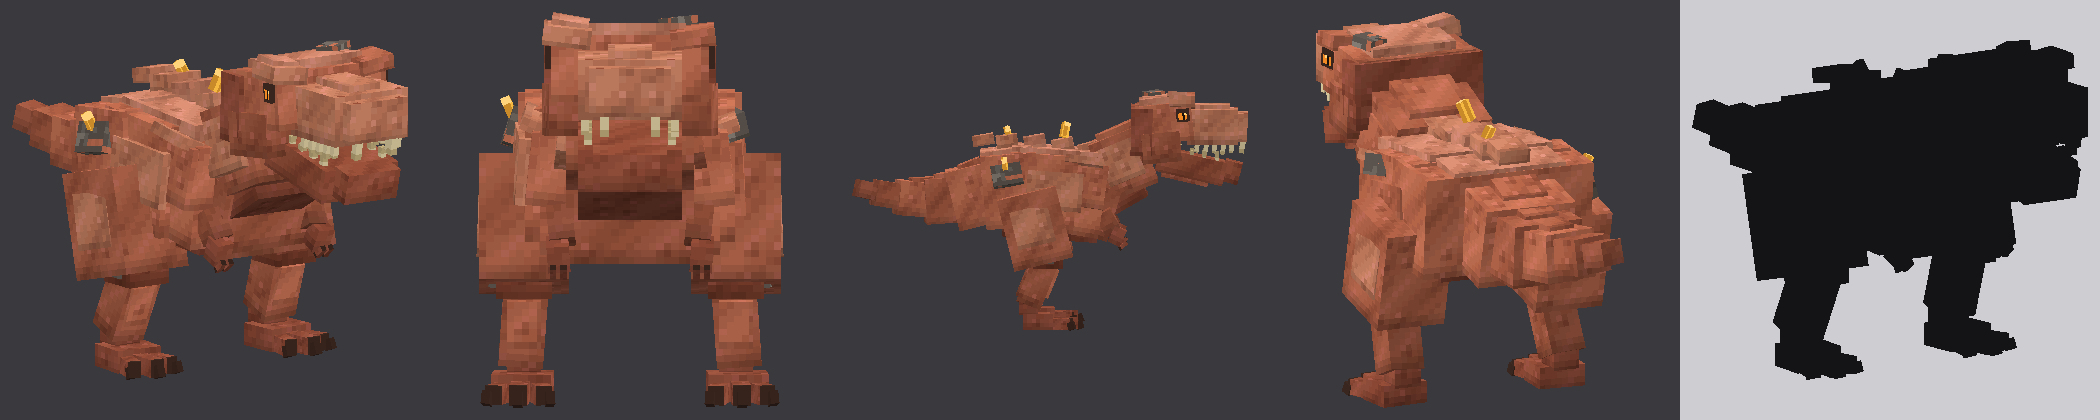
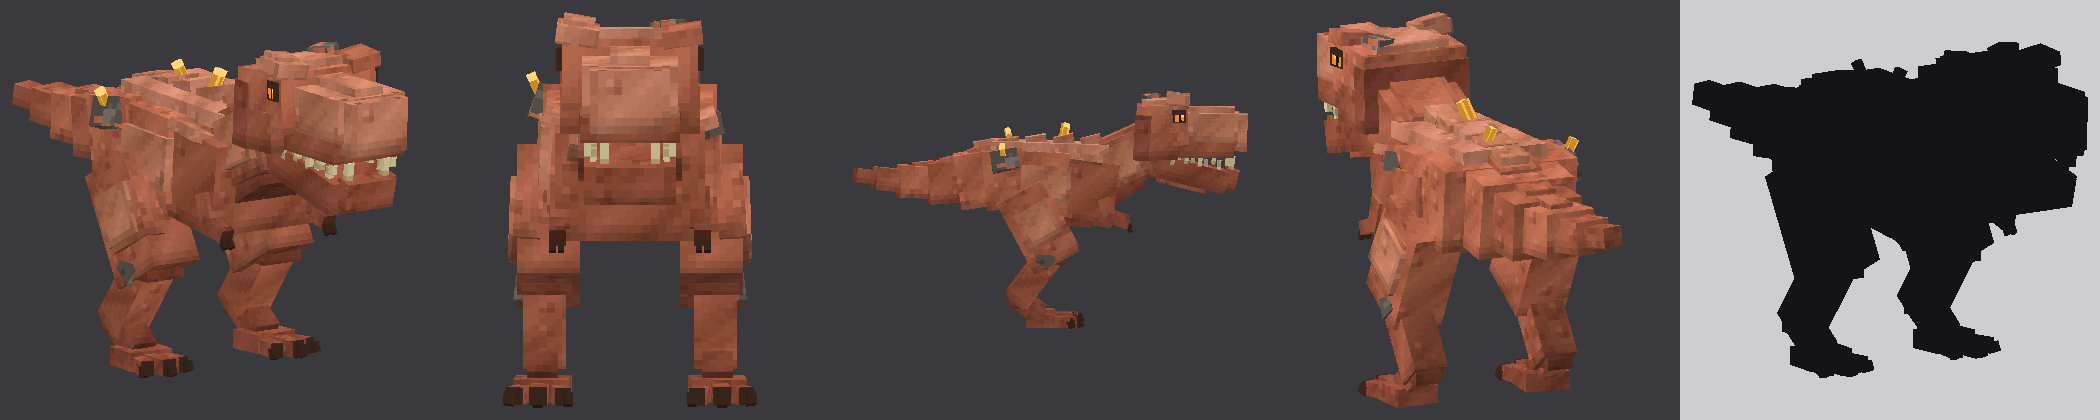
Copper T-Rex: rebuild the silhouette (long body, tall legs, long head)

diff --git a/FluxDungeons/assets/monstres/trex_cuivre.py b/FluxDungeons/assets/monstres/trex_cuivre.py
@@ -22,6 +22,7 @@ Usage: trex_cuivre.py [output folder] [--apercu <sheet.png>]
 Front to the north (-z), right side of the monster at +x, ground at y = 0, centred in x and z on its bounding box.
 """
 import json
+import math
 import os
 import sys
 import uuid
@@ -33,7 +34,7 @@ from golem_fonderie import app, mul, rot  # noqa: E402
 
 IDENT = "trex_cuivre"
 NS = uuid.UUID("5b2d9e00-0000-4000-8000-0000007e3c00")
-SCALE = 1.0
+SCALE = 0.92          # drawn at about 5.4 blocks long: brought to 5 x 3 blocks
 
 
 def pal(*c):
@@ -220,28 +221,30 @@ GLOW_COLOURS = {EYE_RIM, IRIS, GLINT, PUPIL, *AMBER}
 
 
 # --------------------------------------------------------------------------- skeleton (drawing units)
-# Body leans forward over the hips; the hind legs carry it (bones under Root, like the otter), the neck rises to a
-# head held a bit higher than the body centre; the tail leaves the back of the pelvis, dips then rises.
-HIP_Y = 30
-BODY_PIVOT = (0, 31, 6)            # over the hips: the body tips forward around them
-NECK = (0, 35, -13)                # base of the neck, on the chest
-HEAD = (0, 43, -21)                # back of the skull, top of the neck
-HEAD_R = rot(5, 0, 0)              # head slightly raised
-JAW_HINGE = (0, 40.5, -23)         # back of the lower jaw, under the temples
-JAW_OPEN = rot(-14, 0, 0)          # mouth ajar: teeth visible (negative = front down)
-HIPS = {"right": (13, HIP_Y, 5), "left": (-13, HIP_Y, 5)}
-SHOULDERS = {"right": (8, 27, -12), "left": (-8, 27, -12)}
+# Silhouette rebuilt on 2026-11-10 (owner: "too big, too squat"): a long, narrow, horizontal body; a long head pushed
+# forward, deep jaw, no cheeks; tall hind legs in three segments (thigh forward, shin back, metatarsus forward), feet
+# under the pelvis; tiny arms; a long tail thinning to a point. Targets: 5 x 3 blocks, torso 1.5 wide, head 1.1 x 1.3,
+# tail 2, legs 1.3 under the body.
+HIP = {"right": (10, 28, 6), "left": (-10, 28, 6)}
+KNEE_Z, KNEE_Y = -0.5, 16           # knee forward of the hip
+ANKLE_Z, ANKLE_Y = 7, 6             # ankle high and behind (digitigrade)
+BALL_Z = 2.5                        # metatarsus comes forward down to the toes
+NECK = (0, 33, -12)                 # base of the neck, on the chest
+HEAD = (0, 40, -20)                 # back of the skull, top of the neck
+HEAD_R = rot(2, 0, 0)               # head held level, a little raised
+JAW_HINGE = (0, 38.5, -21.5)        # back of the lower jaw
+JAW_OPEN = rot(-13, 0, 0)           # mouth ajar (negative = front down)
+SHOULDERS = {"right": (8.5, 27.5, -12), "left": (-8.5, 27.5, -12)}
 
-# Tail: (bone, cube, size, pitch from the horizontal (positive = down), extra yaw, material), base to tip.
-# Five segments, each smaller, overlapping by TAIL_OVERLAP; it dips at the base then rises, and curves gently.
+# Tail: (bone, cube, size, pitch (positive = down), extra yaw, material), base to tip; overlap TAIL_OVERLAP.
 TAIL = (
-    ("Tail_1", "queue_base", (16, 14, 10), 14, 0, "tail"),
-    ("Tail_2", "queue_milieu_1", (12.5, 10.5, 9), 4, 4, "tail_b"),
-    ("Tail_3", "queue_milieu_2", (9.5, 8, 9), -5, 5, "tail"),
-    ("Tail_4", "queue_fin", (7, 6, 8), -10, 5, "tail_b"),
-    ("Tail_5", "queue_pointe", (4.5, 4, 7), -13, 5, "tail_end"),
+    ("Tail_1", "queue_base", (15, 12, 10), 9, 0, "tail"),
+    ("Tail_2", "queue_milieu_1", (11.5, 9, 9), 4, 3, "tail_b"),
+    ("Tail_3", "queue_milieu_2", (8.5, 7, 9), -2, 4, "tail"),
+    ("Tail_4", "queue_fin", (6, 5, 8), -6, 4, "tail_b"),
+    ("Tail_5", "queue_pointe", (3.5, 3.2, 7), -8, 4, "tail_end"),
 )
-TAIL_START = (0, 31.5, 13)
+TAIL_START = (0, 33, 10.5)
 TAIL_OVERLAP = 2.5
 
 
@@ -251,53 +254,50 @@ def local(c, M, v):
     return [c[i] + q[i] for i in range(3)]
 
 
+def seg(a, b, width, depth, extra=2.0):
+    """A limb cube from joint a to joint b (in the y-z plane): centre, size, pitch; `extra` overlaps the joints."""
+    dy, dz = b[1] - a[1], b[2] - a[2]
+    length = math.hypot(dy, dz) + extra
+    pitch = math.degrees(math.atan2(-dz, -dy))      # positive = bottom toward -z (front)
+    return [(a[i] + b[i]) / 2 for i in range(3)], (width, length, depth), (pitch, 0, 0)
+
+
 def parts():
     """Pieces and bones (name: (pivot, parent)), in drawing units, before grounding."""
     P = []
-    G = {"Root": ((0, 0, 0), None), "Body": (BODY_PIVOT, "Root"), "glow_crystals": (BODY_PIVOT, "Body"),
+    G = {"Root": ((0, 0, 0), None), "Body": ((0, 31, 6), "Root"), "glow_crystals": ((0, 31, 6), "Body"),
          "Neck": (NECK, "Body"), "Head": (HEAD, "Neck")}
 
     def add(g, name, c, size, r, mat):
         P.append((g, name, list(c), size, r, mat))
 
-    # ---------------------------------------------------------------- body: chest, shoulders, pelvis, belly, back
-    # Torso in several boxes: higher, rounder back; narrower belly; pelvis wider than the chest toward the legs.
-    add("Body", "torse", (0, 31.5, 2), (28, 18, 16), (-4, 0, 0), "flank")
-    add("Body", "torse_avant", (0, 30, -7.5), (24, 17, 10), (-9, 0, 0), "flank")         # narrower chest
-    add("Body", "torse_haut", (0, 39.5, -1), (22, 4, 20), (-4, 0, 0), "copper_light")      # rounded back
-    add("Body", "poitrail", (0, 26.5, -12), (17, 12, 6), (-16, 0, 0), "copper_aged")
-    add("Body", "epaule_droite", (10.5, 33, -8), (6, 10, 10), (-8, 0, 6), "copper")
-    add("Body", "epaule_gauche", (-10.5, 33, -8), (6, 10, 10), (-8, 0, -6), "copper")
-    add("Body", "bassin", (0, 32, 9), (30, 17, 13), (5, 0, 0), "hips")
-    add("Body", "croupe", (0, 39.5, 10), (20, 4, 12), (8, 0, 0), "copper_light")
-    add("Body", "ventre", (0, 22.5, 0), (20, 4, 22), (-4, 0, 0), "belly")
-    # plates on the flanks and shoulders, following the body, not aligned with each other
-    add("Body", "plaque_flanc_droit", (14.6, 32, -1), (1.6, 9, 13), (-4, 3, 4), "plate_crack")
-    add("Body", "plaque_flanc_gauche", (-14.6, 31, 1), (1.6, 10, 12), (-6, -2, -3), "plate_aged")
-    add("Body", "plaque_epaule_droite", (11.5, 38.2, -8), (6, 1.8, 9), (-8, 0, 22), "plate_crystal")
-    add("Body", "plaque_epaule_gauche", (-11.5, 37.8, -7.5), (6, 1.8, 8), (-6, 0, -20), "plate")
-    # dorsal plates along the spine, small and leaning back (mineral plates, not dragon spikes)
-    for i, (z, w, h, ang, mat) in enumerate(((-9, 6, 2.5, 14, "plate"), (-3, 7, 3, 12, "plate_crystal"),
-                                             (3.5, 7, 3.2, 10, "plate_light"), (10, 6.5, 2.8, 8, "plate_crystal"),
-                                             (15.5, 5.5, 2.4, 10, "plate"))):
-        y = 41.6 + 0.08 * z + h / 2 - 0.8
-        add("Body", f"plaque_dos_{i + 1}", (0, y, z), (w, h, 5), (ang, 0, 0), mat)
-    # rocks grown into the copper: right hip (with copper ore), left shoulder
-    add("Body", "roche_hanche", (14.5, 35.5, 10), (4, 5, 7), (10, 0, 18), "rock_ore")
-    add("Body", "roche_epaule", (-12.5, 37.5, -5), (5, 3.5, 5), (-10, 20, -16), "rock")
-    # small amber crystals (emissive) in the back plates and the left hip rock
-    add("glow_crystals", "cristal_dos", (1.2, 45.6, -3.5), (1.6, 3.5, 1.6), (-12, 30, 14), "crystal")
-    add("glow_crystals", "cristal_dos_2", (-1.0, 45.0, 9.8), (1.3, 2.6, 1.3), (14, 20, -16), "crystal")
-    add("glow_crystals", "cristal_hanche", (16.2, 38.5, 10.5), (1.3, 2.8, 1.3), (6, 0, -24), "crystal")
+    # ---------------------------------------------------------------- body: long and narrow, horizontal
+    add("Body", "poitrail", (0, 29.5, -8.5), (19, 14, 12), (-8, 0, 0), "copper_aged")       # chest, a bit lower
+    add("Body", "torse", (0, 31.5, 2), (21, 14, 12), (-3, 0, 0), "flank")
+    add("Body", "bassin", (0, 32.5, 10), (22, 13, 9), (6, 0, 0), "hips")                   # carries the legs
+    add("Body", "dos", (0, 39, 0), (14, 2.5, 26), (-2, 0, 0), "copper_light")              # gently arched back
+    add("Body", "ventre", (0, 23.6, -2), (14, 2.5, 14), (-5, 0, 0), "belly")               # flat, not a ball
+    add("Body", "plaque_flanc_droit", (10.8, 31.5, 1), (1.4, 8, 11), (-3, 2, 3), "plate")
+    add("Body", "plaque_flanc_gauche", (-10.8, 31, 2), (1.4, 9, 10), (-4, -2, -3), "plate_aged")
+    add("Body", "plaque_epaule_droite", (8.5, 36.5, -8), (5, 1.6, 7), (-8, 0, 20), "plate_crystal")
+    add("Body", "plaque_epaule_gauche", (-8.5, 36.2, -7.5), (5, 1.6, 6), (-8, 0, -18), "plate")
+    for i, (z, w, h, ang, mat) in enumerate(((-9, 5, 2.2, 14, "plate"), (-3, 6, 2.6, 12, "plate_crystal"),
+                                             (3, 6, 2.8, 10, "plate_light"), (9, 5.5, 2.5, 8, "plate_crystal"),
+                                             (14.5, 4.5, 2.2, 10, "plate"))):
+        add("Body", f"plaque_dos_{i + 1}", (0, 39.6 + h / 2 - 0.6 - 0.04 * z, z), (w, h, 4.5), (ang, 0, 0), mat)
+    add("Body", "roche_hanche", (10.5, 36.5, 10), (3.5, 4.5, 6), (10, 0, 18), "rock_ore")
+    add("Body", "roche_epaule", (-9, 35.5, -4), (4, 3, 4.5), (-10, 20, -16), "rock")
+    add("glow_crystals", "cristal_dos", (1.0, 42.8, -3.2), (1.5, 3.2, 1.5), (-12, 30, 14), "crystal")
+    add("glow_crystals", "cristal_dos_2", (-0.9, 42.0, 9.2), (1.2, 2.4, 1.2), (14, 20, -16), "crystal")
+    add("glow_crystals", "cristal_hanche", (12.0, 39.2, 10.5), (1.2, 2.6, 1.2), (6, 0, -24), "crystal")
 
-    # ---------------------------------------------------------------- neck: thick, leaning forward, plated
-    add("Neck", "cou", (0, 38, -17), (17, 14, 12), (22, 0, 0), "neck")
-    add("Neck", "gorge", (0, 31.5, -16.5), (14, 8, 10), (30, 0, 0), "belly")
-    add("Neck", "plaque_nuque", (0, 45.3, -15.5), (11, 2, 10), (24, 0, 0), "plate_aged")
-    add("Neck", "plaque_cou_droite", (8.8, 38.5, -16.5), (1.6, 9, 9), (22, 0, 6), "plate")
-    add("Neck", "plaque_cou_gauche", (-8.8, 38, -17), (1.6, 8, 9), (20, 0, -8), "plate_ox")
+    # ---------------------------------------------------------------- neck: thick, rising forward, darker
+    add("Neck", "cou", (0, 36, -16), (13, 11, 11), (24, 0, 0), "neck")
+    add("Neck", "gorge", (0, 30.8, -15.5), (11, 6, 9), (30, 0, 0), "belly")
+    add("Neck", "plaque_nuque", (0, 41.6, -15), (9, 1.8, 9), (24, 0, 0), "plate_aged")
+    add("Neck", "plaque_cou_droite", (6.8, 36.5, -16), (1.4, 7.5, 8), (24, 0, 6), "plate")
 
-    # ---------------------------------------------------------------- head: big skull, long snout, brows
+    # ---------------------------------------------------------------- head: long skull, deep jaw, snout forward
     on_head = attach(HEAD, HEAD_R)
 
     def hd(g, name, c, size, r, mat):
@@ -305,38 +305,36 @@ def parts():
         P.append((g, name, cc, size, M, mat))
         return cc, M
 
-    hd("Head", "crane", (0, 47, -27), (21, 9, 13), (1, 0, 0), "skull")
-    hd("Head", "crane_dome", (0, 52, -26.5), (15, 2, 10), (2, 0, 0), "plate_light")
-    hd("Head", "arriere_crane", (0, 45.5, -21.5), (23, 11, 5), (-6, 0, 0), "copper_dark")
-    hd("Head", "joue_droite", (8.5, 41.5, -25.5), (5.5, 7, 9), (0, 6, 0), "copper_aged")
-    hd("Head", "joue_gauche", (-8.5, 41.5, -25.5), (5.5, 7, 9), (0, -6, 0), "copper_aged")
-    mc, mM = hd("Head", "museau", (0, 45, -38), (14, 8, 12), (-5, 0, 0), "snout")
-    tc, tM = hd("Head", "museau_bout", (0, 44.3, -44.6), (11, 6.5, 3), (-7, 0, 0), "snout")
-    hd("Head", "arete_nasale", (0, 49.4, -37), (6, 1.5, 11), (-5, 0, 0), "plate")
-    # brows: they overhang the eyes; asymmetric details (bigger plate over the right eye, patina on the left one)
-    hd("Head", "arcade_droite", (8.4, 51.6, -31.5), (6.5, 2.6, 6), (-7, 0, 7), "plate_crack")
-    hd("Head", "plaque_arcade_droite", (8.0, 53.2, -30.5), (5, 1.2, 4.5), (-10, 0, 10), "plate_light")
-    hd("Head", "arcade_gauche", (-8.4, 51.4, -31.5), (6, 2.4, 6), (-7, 0, -7), "plate_ox")
-    hd("Head", "roche_crane", (-6.5, 53.0, -25), (4, 1.8, 4), (0, 25, -6), "rock_ore")
-    # eyes on the sides of the skull, a little turned forward, under the brows
-    G["glow_eyes"] = (on_head((0, 49, -31), (0, 0, 0))[0], "Head")
-    hd("glow_eyes", "oeil_droit", (10.6, 48.6, -31.4), (0.8, 3, 3), (0, -14, 0), "eye")
-    hd("glow_eyes", "oeil_gauche", (-10.6, 48.6, -31.4), (0.8, 3, 3), (0, 14, 0), "eye")
-    # upper teeth along the snout, irregular, longer at the front, leaning back
-    teeth = [(-4.5, 0.5), (-2.5, 1.2), (-0.5, 0.6), (1.5, 0.9), (3.6, 0.4)]   # (z along the snout, extra length)
+    hd("Head", "crane", (0, 44, -25), (17, 9, 11), (1, 0, 0), "skull")                  # wide back of the skull
+    hd("Head", "arriere_crane", (0, 41.5, -20.3), (17.6, 10, 3.5), (-6, 0, 0), "copper_dark")
+    hd("Head", "crane_dome", (0, 48.8, -24.5), (12, 1.6, 8), (2, 0, 0), "plate_light")
+    mc, mM = hd("Head", "museau", (0, 43, -35), (12, 6.5, 13), (-3, 0, 0), "snout")    # long, horizontal
+    lc, lM = hd("Head", "levre", (0, 38.3, -33), (12.6, 3.4, 15), (-3, 0, 0), "copper_aged")  # deep upper jaw
+    hd("Head", "museau_bout", (0, 41.6, -42.2), (10, 8, 2.5), (-4, 0, 0), "snout")
+    hd("Head", "arete_nasale", (0, 46.8, -35), (5, 1.4, 12), (-3, 0, 0), "plate")
+    hd("Head", "machoire_muscle_droit", (7.6, 39.5, -24.5), (2.4, 6, 7), (0, 0, 0), "copper_aged")
+    hd("Head", "machoire_muscle_gauche", (-7.6, 39.5, -24.5), (2.4, 6, 7), (0, 0, 0), "copper_aged")
+    # brows over the eyes (asymmetric detail: bigger plate on the right), eyes on the sides, turned forward
+    hd("Head", "arcade_droite", (6.6, 49.2, -28.5), (5.4, 2.3, 5), (-7, 0, 8), "plate")
+    hd("Head", "plaque_arcade_droite", (6.4, 50.6, -27.8), (4, 1.0, 3.6), (-10, 0, 10), "plate_light")
+    hd("Head", "arcade_gauche", (-6.6, 49.0, -28.5), (5, 2.1, 5), (-7, 0, -8), "plate_aged")
+    hd("Head", "roche_crane", (-4.8, 49.6, -22.5), (3.4, 1.6, 3.4), (0, 25, -6), "rock_ore")
+    G["glow_eyes"] = (on_head((0, 46, -28.5), (0, 0, 0))[0], "Head")
+    hd("glow_eyes", "oeil_droit", (8.6, 46.0, -28.6), (0.8, 2.8, 2.8), (0, -14, 0), "eye")
+    hd("glow_eyes", "oeil_gauche", (-8.6, 46.0, -28.6), (0.8, 2.8, 2.8), (0, 14, 0), "eye")
+    # upper teeth under the deep upper jaw, irregular, longer at the front, leaning back
     for s, side in ((1, "d"), (-1, "g")):
-        for k, (dz, extra) in enumerate(teeth):
-            base = local(mc, mM, (s * 6.0, -4, dz))
-            ln = 1.6 + extra + (0.3 if (k + (s > 0)) % 2 else 0)
-            hd_c = [base[0], base[1] - ln / 2 + 0.4, base[2]]
-            P.append(("Head", f"dent_haut_{side}{k + 1}", hd_c, (1.0, ln, 1.0), mul(mM, rot(-10, 0, 0)), "tooth"))
-        base = local(tc, tM, (s * 3.4, -3.25, -0.4))
-        P.append(("Head", f"croc_avant_{side}", [base[0], base[1] - 1.3, base[2]], (1.2, 3.0, 1.2),
-                  mul(tM, rot(-8, 0, 0)), "tooth"))
+        for k, (dz, extra) in enumerate(((-6, 0.6), (-3, 0.3), (0, 0.8), (3, 0.2), (6, 0.5))):
+            base = local(lc, lM, (s * 5.3, -1.7, dz))
+            ln = 1.5 + extra
+            P.append(("Head", f"dent_haut_{side}{k + 1}", [base[0], base[1] - ln / 2 + 0.3, base[2]],
+                      (0.9, ln, 0.9), mul(lM, rot(-10, 0, 0)), "tooth"))
+        base = local(lc, lM, (s * 3.2, -1.7, -7.0))
+        P.append(("Head", f"croc_avant_{side}", [base[0], base[1] - 1.3, base[2]], (1.1, 2.8, 1.1),
+                  mul(lM, rot(-8, 0, 0)), "tooth"))
 
-    # lower jaw: a distinct piece hinged under the temples, opened a little
-    hinge = on_head(JAW_HINGE, (0, 0, 0))[0]
-    G["Jaw"] = (hinge, "Head")
+    # lower jaw: long and deep, clearly separate (darker, opened)
+    G["Jaw"] = (on_head(JAW_HINGE, (0, 0, 0))[0], "Head")
     on_jaw = attach(JAW_HINGE, JAW_OPEN)
 
     def jw(name, c, size, r, mat):
@@ -345,57 +343,65 @@ def parts():
         P.append(("Jaw", name, cc, size, M, mat))
         return cc, M
 
-    jc, jM = jw("machoire", (0, 38.6, -33), (14, 5.5, 16), (-4, 0, 0), "jaw")
-    jw("menton", (0, 38.7, -42.5), (10, 5, 4), (-6, 0, 0), "jaw")
-    jw("plaque_machoire", (0, 35.6, -32), (10, 1.5, 11), (-4, 0, 0), "plate_dark")
+    jc, jM = jw("machoire", (0, 35.2, -31), (11.5, 5, 18), (-3, 0, 0), "jaw")
+    jw("menton", (0, 35.6, -40.5), (8.5, 4.5, 3), (-4, 0, 0), "jaw")
+    jw("plaque_machoire", (0, 32.5, -30), (8, 1.4, 11), (-3, 0, 0), "plate_dark")
     for s, side in ((1, "droite"), (-1, "gauche")):
-        jw(f"articulation_{side}", (s * 7.4, 40.3, -23.5), (1.6, 3, 3), (0, 0, 0), "joint")
-        for k, dz in enumerate((-5.5, -2.5, 0.5, 3.5)):
-            top = local(jc, jM, (s * 5.6, 2.75, dz))
-            ln = 1.4 + (0.6 if k == 0 else 0.2 * (k % 2))
-            P.append(("Jaw", f"dent_bas_{side[0]}{k + 1}", [top[0], top[1] + ln / 2 - 0.4, top[2]], (1.0, ln, 1.0),
+        jw(f"articulation_{side}", (s * 6.2, 38, -22.5), (1.4, 2.8, 2.8), (0, 0, 0), "joint")
+        for k, dz in enumerate((-6.5, -3.5, -0.5, 2.5)):
+            top = local(jc, jM, (s * 4.6, 2.5, dz))
+            ln = 1.3 + (0.6 if k == 0 else 0.2 * (k % 2))
+            P.append(("Jaw", f"dent_bas_{side[0]}{k + 1}", [top[0], top[1] + ln / 2 - 0.3, top[2]], (0.9, ln, 0.9),
                       mul(jM, rot(8, 0, 0)), "fang_up"))
 
-    # ---------------------------------------------------------------- tiny arms: very short, close to the chest
+    # ---------------------------------------------------------------- tiny arms on the sides of the upper chest
     for s, side in ((1, "right"), (-1, "left")):
         bone = f"Arm_{side}"
         G[bone] = (SHOULDERS[side], "Body")
-        sx, sy, sz = SHOULDERS[side]
-        add(bone, "bras", (sx + 1.2 * s, sy - 2.2, sz - 1.4), (3.5, 5, 4), (30, 0, -6 * s), "copper_aged")
-        add(bone, "avant_bras", (sx + 1.6 * s, sy - 5.6, sz - 3.6), (3, 4, 3), (-25, 0, -4 * s), "copper_dark")
-        for k, dx in enumerate((-0.7, 0.7)):
-            add(bone, f"doigt_{k + 1}", (sx + 1.6 * s + dx, sy - 7.9, sz - 5.0), (0.9, 0.9, 2.4), (40, 0, 0), "toe")
+        S_ = SHOULDERS[side]
+        E = (S_[0] + 0.6 * s, S_[1] - 3.6, S_[2] - 1.2)         # elbow
+        W = (S_[0] + 0.7 * s, S_[1] - 4.8, S_[2] - 4.6)         # wrist: the hand sticks out in front of the chest
+        c, size, r = seg(S_, E, 2.6, 2.8, extra=1.5)
+        add(bone, "bras", c, size, r, "copper_aged")
+        c, size, r = seg(E, W, 2.2, 2.2, extra=1.5)
+        add(bone, "avant_bras", c, size, r, "copper_dark")
+        for k, dx in enumerate((-0.55, 0.55)):                  # two clawed fingers, curled down
+            add(bone, f"doigt_{k + 1}", (W[0] + dx, W[1] - 1.0, W[2] - 0.6), (0.8, 2.2, 0.8), (35, 0, 0), "claw")
 
-    # ---------------------------------------------------------------- hind legs: big thigh, thinner shin, 3-toed foot
-    legs = {}
+    # ---------------------------------------------------------------- hind legs: thigh, shin, metatarsus, 3-toed foot
     for s, side in ((1, "right"), (-1, "left")):
         up, low = f"Leg_{side}", f"Shin_{side}"
-        hx_, hy, hz = HIPS[side]
-        G[up] = ((hx_, hy, hz), "Root")
-        add(up, "cuisse", (hx_ + 1.2 * s, hy - 6.5, hz - 1.5), (12, 17, 14), (14, 0, 0), "thigh")
-        add(up, "cuisse_muscle", (hx_ + 3.6 * s, hy - 4, hz - 0.5), (5, 10, 11), (14, 0, 5 * s), "muscle")
-        add(up, "plaque_cuisse", (hx_ + 6.6 * s, hy - 6, hz - 1), (1.5, 9, 9), (14, 0, 2 * s), "plate_crack" if s > 0 else "plate")
-        knee = (hx_ + 1.2 * s, hy - 14, hz - 4.5)
-        G[low] = (knee, up)
-        add(low, "genou", (knee[0], knee[1] + 0.5, knee[2]), (7.5, 5, 7), (0, 0, 0), "joint")
-        add(low, "roche_genou", (knee[0] + 3.4 * s, knee[1] + 1, knee[2] + 0.5), (2.2, 3.5, 4), (0, 0, 8 * s), "rock")
-        add(low, "jambe", (knee[0], knee[1] - 5.5, knee[2] + 2.5), (6, 11, 6), (-22, 0, 4 * s), "copper_aged")
-        add(low, "plaque_jambe", (knee[0], knee[1] - 5.5, knee[2] - 0.8), (4.5, 7, 1.2), (-22, 0, 0), "plate_ox")
-        ankle = (knee[0], knee[1] - 11, knee[2] + 4.5)
-        add(low, "cheville", ankle, (4.5, 3.5, 4.5), (0, 0, 0), "copper_dark")
-        foot = attach(ankle, rot(0, -4 * s, 0))                           # foot turned slightly outward
-        for name, c, size, r, mat in (
-            ("pied", (ankle[0], 1.8, ankle[2] - 2.5), (8, 3.6, 7), (0, 0, 0), "copper_dark"),
-            ("doigt_1", (ankle[0] - 2.8, 1.3, ankle[2] - 7.5), (2.2, 2.6, 5.5), (0, 14, 0), "toe"),
-            ("doigt_2", (ankle[0], 1.4, ankle[2] - 8.3), (2.4, 2.8, 6.5), (0, 0, 0), "toe"),
-            ("doigt_3", (ankle[0] + 2.8, 1.3, ankle[2] - 7.5), (2.2, 2.6, 5.5), (0, -14, 0), "toe"),
-            ("griffe_1", (ankle[0] - 4.2, 0.9, ankle[2] - 10.3), (1.2, 1.8, 1.6), (20, 14, 0), "claw"),
-            ("griffe_2", (ankle[0], 1.0, ankle[2] - 11.9), (1.3, 2.0, 1.7), (20, 0, 0), "claw"),
-            ("griffe_3", (ankle[0] + 4.2, 0.9, ankle[2] - 10.3), (1.2, 1.8, 1.6), (20, -14, 0), "claw"),
+        hx_, hy, hz = HIP[side]
+        H = (hx_, hy, hz)
+        K = (hx_ + 0.5 * s, KNEE_Y, KNEE_Z)
+        A = (hx_ + 1.0 * s, ANKLE_Y, ANKLE_Z)
+        B = (hx_ + 1.0 * s, 2.5, BALL_Z)
+        G[up] = (H, "Root")
+        c, size, r = seg(H, K, 8, 11, extra=4)
+        add(up, "cuisse", c, size, r, "thigh")                                       # big, muscular
+        add(up, "cuisse_muscle", (c[0] + 2.6 * s, c[1] + 1.5, c[2] - 1), (3.5, 10, 9), (r[0], 0, 4 * s), "muscle")
+        add(up, "plaque_cuisse", (c[0] + 4.3 * s, c[1] + 1, c[2]), (1.3, 8, 8), (r[0], 0, 2 * s),
+            "plate_crack" if s > 0 else "plate")
+        G[low] = (K, up)
+        add(low, "genou", K, (6.5, 4.5, 6), (0, 0, 0), "joint")
+        c, size, r = seg(K, A, 5.5, 5.5, extra=2)
+        add(low, "tibia", c, size, r, "copper_aged")                                 # distinct shin, going back
+        add(low, "roche_genou", (K[0] + 3.0 * s, K[1] - 1, K[2] + 1.5), (1.8, 3.2, 3.5), (r[0], 0, 8 * s), "rock")
+        add(low, "cheville", A, (4.2, 3.6, 4.2), (0, 0, 0), "joint")
+        c, size, r = seg(A, B, 4, 4, extra=1.5)
+        add(low, "metatarse", c, size, r, "copper_dark")
+        foot = attach(B, rot(0, -4 * s, 0))                                          # foot turned slightly out
+        for name, cc, sz, rr, mat in (
+            ("pied", (B[0], 1.4, B[2] - 0.5), (7, 2.8, 6), (0, 0, 0), "copper_dark"),
+            ("doigt_1", (B[0] - 2.5, 1.1, B[2] - 5), (2, 2.2, 5), (0, 14, 0), "toe"),
+            ("doigt_2", (B[0], 1.2, B[2] - 5.6), (2.2, 2.4, 6), (0, 0, 0), "toe"),
+            ("doigt_3", (B[0] + 2.5, 1.1, B[2] - 5), (2, 2.2, 5), (0, -14, 0), "toe"),
+            ("griffe_1", (B[0] - 3.7, 0.8, B[2] - 7.5), (1.1, 1.6, 1.5), (20, 14, 0), "claw"),
+            ("griffe_2", (B[0], 0.9, B[2] - 9.0), (1.2, 1.8, 1.6), (20, 0, 0), "claw"),
+            ("griffe_3", (B[0] + 3.7, 0.8, B[2] - 7.5), (1.1, 1.6, 1.5), (20, -14, 0), "claw"),
         ):
-            cc, M = foot(c, r)
-            add(low, name, cc, size, M, mat)
-        legs[up] = (up, low)
+            pc, M = foot(cc, rr)
+            add(low, name, pc, sz, M, mat)
 
     # ---------------------------------------------------------------- tail: one bone per segment, pivot at its front
     start, yaw, parent = list(TAIL_START), 0.0, "Body"
@@ -406,14 +412,13 @@ def parts():
         c = [start[k] + d[k] * size[2] / 2 for k in range(3)]
         G[g] = (list(start), parent)
         add(g, name, c, size, R, mat)
-        if g in ("Tail_1", "Tail_2", "Tail_3"):                    # mineral plates on the top of the tail
+        if g in ("Tail_1", "Tail_2", "Tail_3"):
             pc = local(c, R, (0.3, size[1] / 2 + 0.3, -size[2] * 0.08))
-            add(g, f"plaque_{name}", pc, (size[0] * 0.5, 1.4, size[2] * 0.55), mul(R, rot(8, 0, 0)),
-                "plate_aged" if g != "Tail_3" else "plate_ox")
+            add(g, f"plaque_{name}", pc, (size[0] * 0.45, 1.3, size[2] * 0.5), mul(R, rot(8, 0, 0)), "plate_aged")
         start = [start[k] + d[k] * (size[2] - TAIL_OVERLAP) for k in range(3)]
         parent = g
 
-    # each leg exactly on the ground; parents written before their children
+    # on the ground; parents written before their children
     low = min(q[1] for g, n, c, size, r, m in P for q in corners(c, size, r))
     P = [(g, n, [c[0], c[1] - low, c[2]], size, r, m) for g, n, c, size, r, m in P]
     G = {k: ((pv[0], pv[1] - (0 if k == "Root" else low), pv[2]), par) for k, (pv, par) in G.items()}
